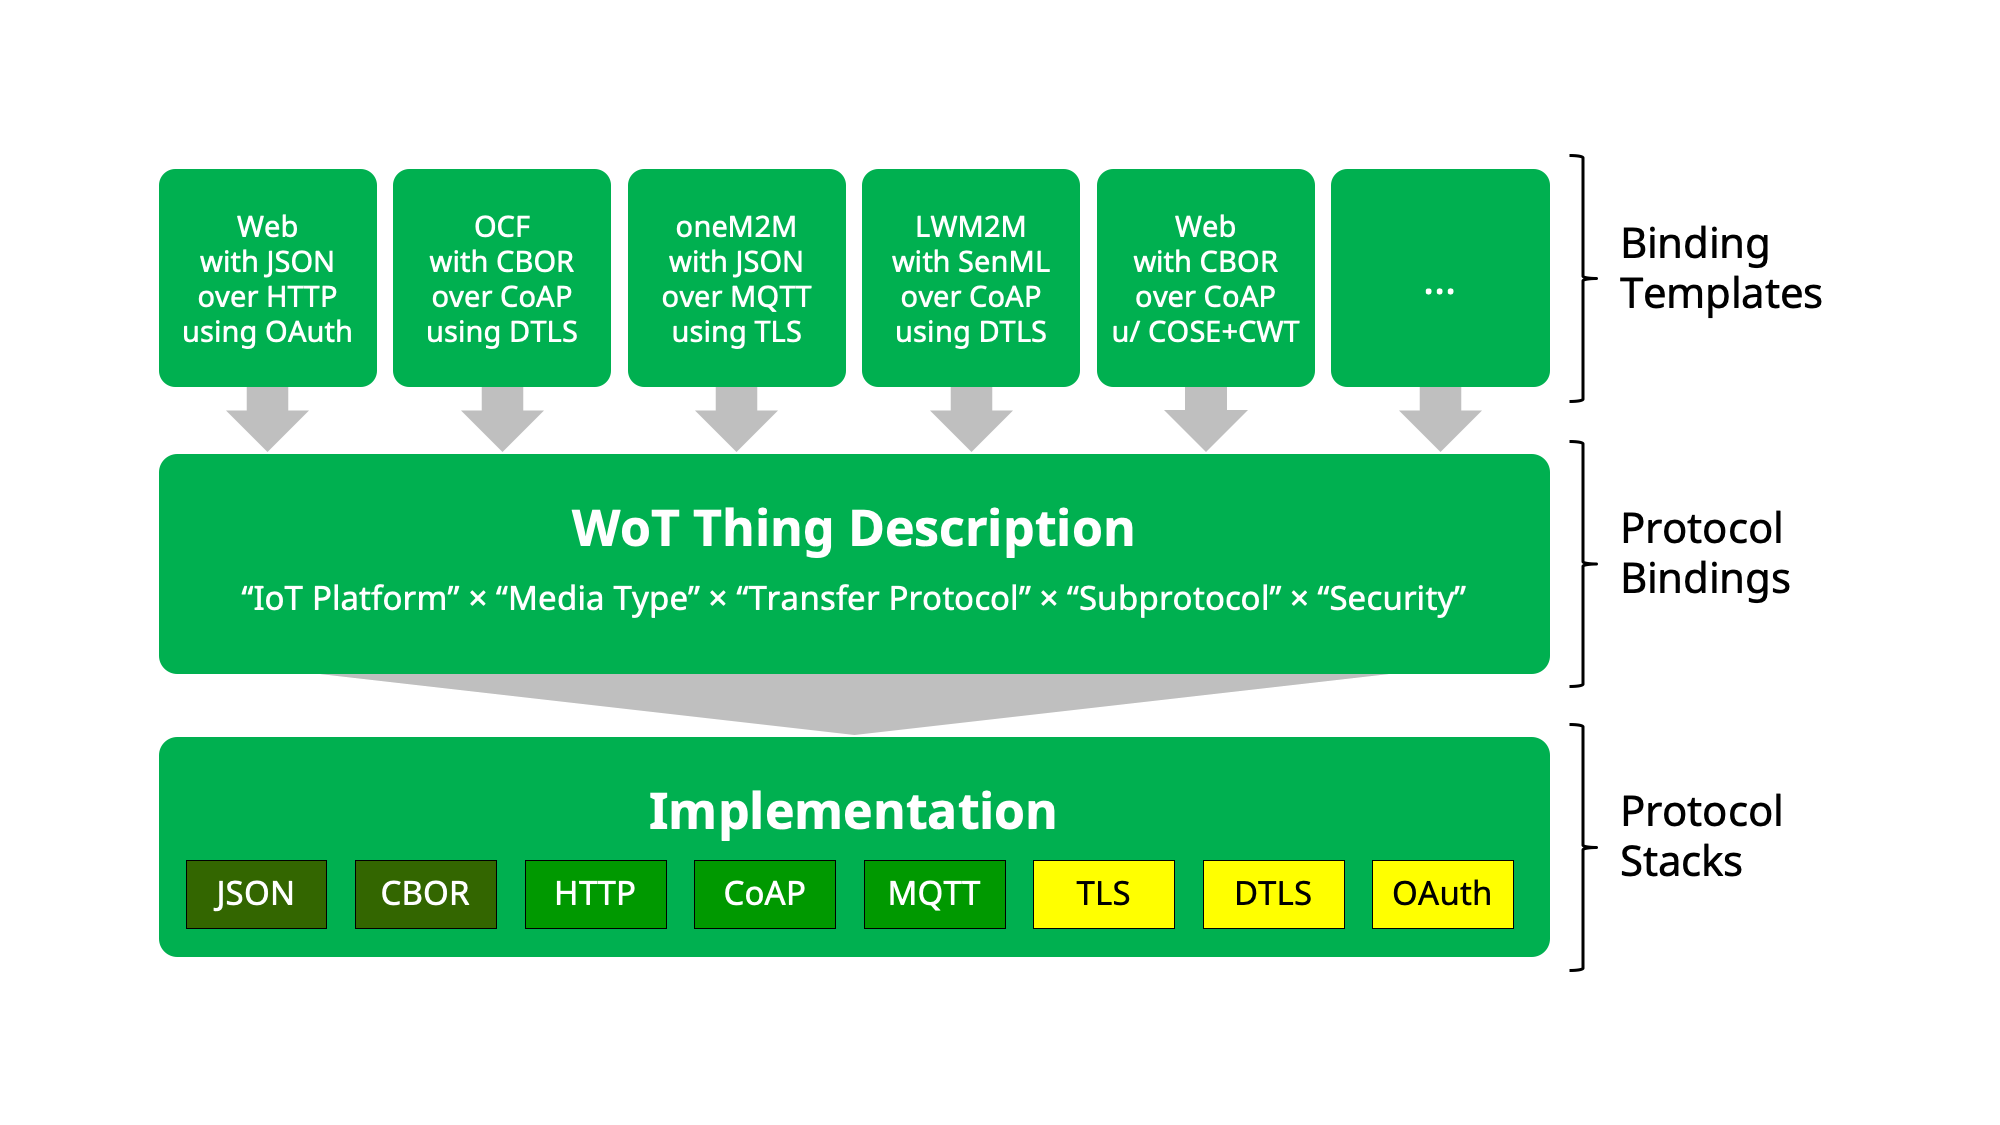
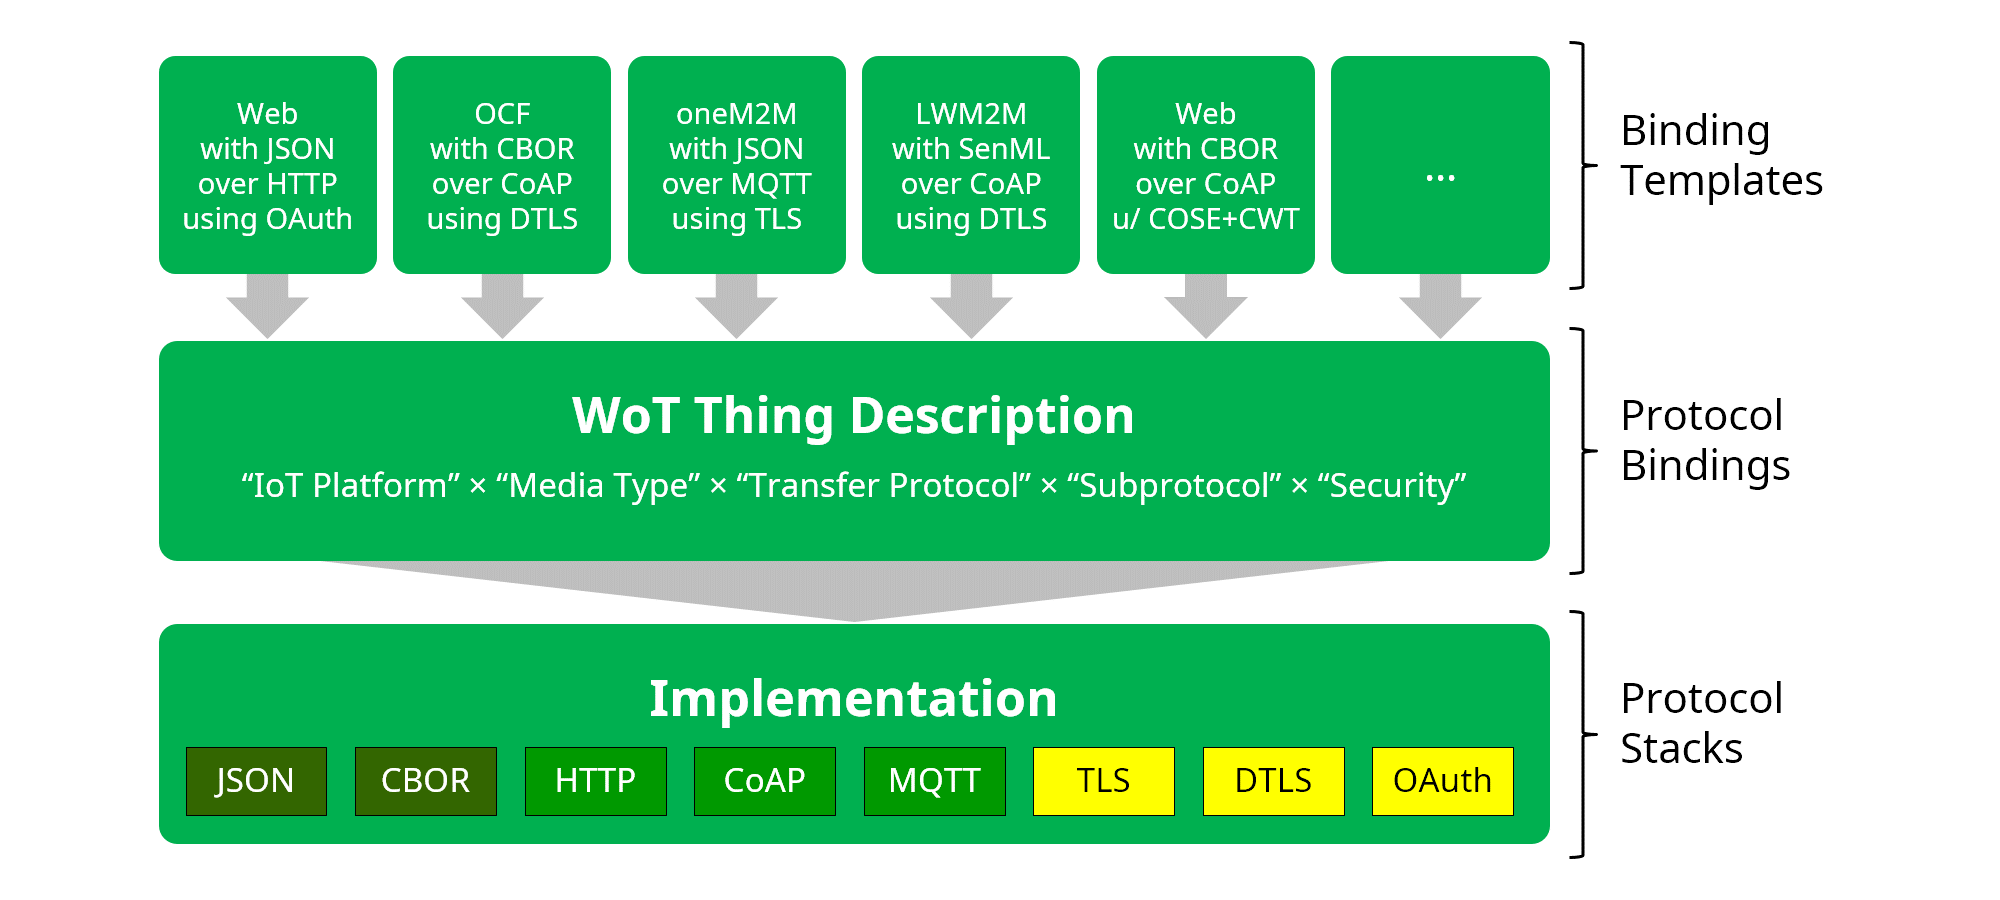
update images in Section 7

diff --git a/index.html b/index.html
@@ -2405,7 +2405,8 @@ img.wot-arch-diagram {
             <a>Binding Templates</a> are informative.
         </p>
         <figure id="arch-building-blocks">
-            <img src="images/bblocks/abstract.png" 
+            <img src="images/bblocks/abstract.png"
+                 srcset="images/bblocks/abstract.svg" 
                  class="wot-arch-diagram" alt="wot building blocks" />
             <figcaption>Relationship of WoT Building Blocks 
             to the Architectural Aspects of a Thing.</figcaption>
@@ -2504,6 +2505,7 @@ img.wot-arch-diagram {
             </p>
             <figure id="fig-binding-templates">
                 <img src="images/bblocks/binding-templates.png"
+                     srcset="images/bblocks/binding-templates.svg"
                      class="wot-arch-diagram" alt="binding templates" />
                 <figcaption>From Binding Templates to Protocol Bindings</figcaption>
             </figure>
